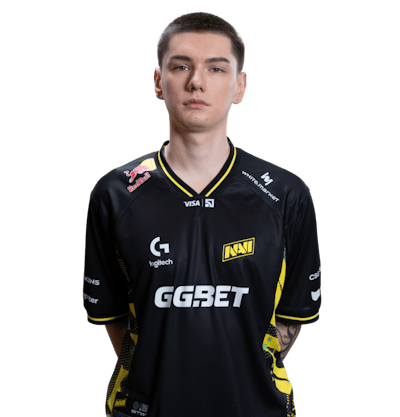
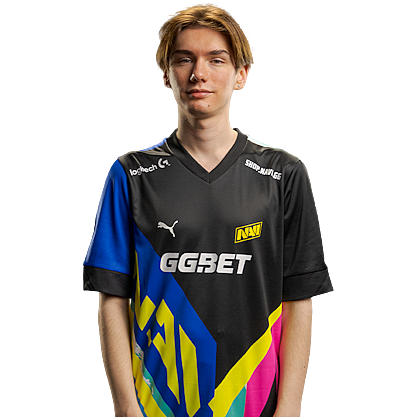
w0nderful update

diff --git a/assets/profile.js b/assets/profile.js
@@ -574,8 +574,8 @@ function teamPlayers() {
   return state.players.filter(p => sameTeam(p.team, state.team.team))
     .sort((a, b) => (a.roster === 'Starter' ? 0 : 1) - (b.roster === 'Starter' ? 0 : 1) || b.marketValue - a.marketValue);
 }
-function playerAwards(name) {
-  const hist = state.playerHistory.filter(h => h.player === name).sort(byNewest);
+function playerAwards(p) {
+  const hist = state.playerHistory.filter(h => ownsRow(p, h.player, h.team)).sort(byNewest);
   return { hist, trophies: hist.filter(isPodium), placements: hist.filter(h => h.kind === 'EVENT'), medals: hist.filter(h => h.kind !== 'EVENT') };
 }
 function renderRoster() {
@@ -585,7 +585,7 @@ function renderRoster() {
   if (!list.length) { box.innerHTML = '<div class="tp-empty">No players registered for this team.</div>'; return; }
   $('#tpRosterNote').textContent = 'Squad value ' + fmtMoney(list.reduce((s, p) => s + p.marketValue, 0));
   box.innerHTML = '<div class="tp-roster">' + list.map(p => {
-    const a = playerAwards(p.name);
+    const a = playerAwards(p);
     const shown = a.trophies.slice(0, CARD_TROPHY_LIMIT), hidden = a.trophies.length - shown.length;
     const groups = groupMedals(a.medals);
     const medals = groups.length ? `<div class="shelf xs tp-cardmedals">${groups.map(g => medalIconHtml(g)).join('')}</div>` : '';
@@ -710,7 +710,7 @@ function closePlayer() {
 const titleCase = s => String(s).toLowerCase().replace(/\b[a-z]/g, c => c.toUpperCase()).replace(/\bFa\b/, 'Free-agent');
 function careerHtml(p, noTitle) {
   const seen = new Set();
-  const moves = state.transactions.filter(x => x.player.toLowerCase() === p.name.toLowerCase()).sort((a, b) => a.id - b.id)
+  const moves = state.transactions.filter(x => nameEq(x.player, p.name)).sort((a, b) => a.id - b.id)
     .filter(x => { const k = [x.month, x.type, x.from, x.to].join('|'); if (seen.has(k)) return false; seen.add(k); return true; });
   const hasTeam = p.team && p.team.toLowerCase() !== 'none';
   const teamCell = n => /^free agen/i.test(n) ? '<span class="cr-fa">Free agency</span>' : `<span class="cr-team">${teamLink(n, true)}</span>`;
@@ -719,7 +719,7 @@ function careerHtml(p, noTitle) {
       ${x.amount > 0 ? `<span class="cr-fee">Fee ${fmtMoney(x.amount)}</span>` : ''}</li>`).join('');
   rows += `<li class="cr-now"><span class="cr-month">Now</span><span class="cr-type">${hasTeam ? esc(p.roster || 'Player') : 'Unsigned'}</span><span class="cr-move">${hasTeam ? teamCell(p.team) : teamCell('Free agency')}</span></li>`;
   // teams the player collected results with, even without a logged transfer
-  const others = [...new Set(state.playerHistory.filter(h => h.player === p.name && h.team && h.team.toLowerCase() !== 'none' && !sameTeam(h.team, p.team)).map(h => h.team))];
+  const others = [...new Set(state.playerHistory.filter(h => ownsRow(p, h.player, h.team) && h.team && h.team.toLowerCase() !== 'none' && !sameTeam(h.team, p.team)).map(h => h.team))];
   return `${noTitle ? '' : '<div class="ach-sub">Career</div>'}<ul class="cr-list">${rows}</ul>`
     + (others.length ? `<div class="cab-foot">Also has results with ${others.map(esc).join(', ')}</div>` : '')
     + (!moves.length ? '<div class="cab-foot">No transfers on record · dates are the day each move was logged</div>' : '<div class="cab-foot">Dates are the day each move was logged</div>');
@@ -728,7 +728,7 @@ function renderPlayerPanel(resetScroll) {
   const p = state.players.find(x => x.name === state.openPlayer);
   if (!p) return;
   const hasTeam = p.team && p.team.toLowerCase() !== 'none';
-  const a = playerAwards(p.name);
+  const a = playerAwards(p);
   const majors = Math.max(p.majorWinner, a.placements.filter(h => h.tier >= 5 && h.position === 'Winner').length);
   const view = getView('player');
   const groups = groupMedals(a.medals);
@@ -795,9 +795,31 @@ document.addEventListener('keydown', e => { if (e.key === 'Escape' && state.open
 ══════════════════════════════════════════════════════════════ */
 const playerUrl = name => 'player.html?player=' + encodeURIComponent(name);
 const teamUrl = name => 'team.html?team=' + encodeURIComponent(name);
-const findPlayer = name => state.players.find(p => p.name.toLowerCase() === String(name).trim().toLowerCase());
-function playerLink(name) {
-  const p = findPlayer(name);
+/* Names are matched ignoring capitals (files disagree on "Into The Beach" style details),
+   EXCEPT when two different players share a name apart from capitals (matys / MATYS).
+   Then the team decides: a row that says "MATYS, Fnatic" belongs to whichever of the two
+   plays for Fnatic; with no team to go by, the exact spelling wins. */
+function nameIndex() {
+  if (state._byLower && state._byLowerN === state.players.length) return state._byLower;
+  const m = new Map();
+  state.players.forEach(p => { const k = p.name.toLowerCase(); if (!m.has(k)) m.set(k, []); m.get(k).push(p); });
+  state._byLowerN = state.players.length;
+  return (state._byLower = m);
+}
+function findPlayer(name, team) {
+  name = String(name).trim();
+  const c = nameIndex().get(name.toLowerCase());
+  if (!c) return undefined;
+  if (c.length === 1) return c[0];
+  const onTeam = team ? c.filter(p => sameTeam(p.team, team)) : [];
+  return onTeam.find(p => p.name === name) || onTeam[0] || c.find(p => p.name === name) || c[0];
+}
+const hasTwin = name => (nameIndex().get(String(name).toLowerCase()) || []).length > 1;
+const nameEq = (a, b) => a === b || (a.toLowerCase() === b.toLowerCase() && !hasTwin(a));
+/* does this history / lineup entry (name + the team it was written for) belong to player p? */
+const ownsRow = (p, name, team) => name === p.name && !hasTwin(name) ? true : findPlayer(name, team) === p;
+function playerLink(name, team) {
+  const p = findPlayer(name, team);
   return p ? `<a class="pl-link" href="${playerUrl(p.name)}">${esc(p.name)}</a>` : `<span class="pl-link off" title="Not in the players file">${esc(name)}</span>`;
 }
 function teamLink(name, withLogo) {
@@ -840,7 +862,7 @@ function rosterAt(team, ms) {
   const names = state.players.filter(p => sameTeam(p.team, team))
     .sort((a, b) => (a.roster === 'Starter' ? 0 : 1) - (b.roster === 'Starter' ? 0 : 1) || b.marketValue - a.marketValue).map(p => p.name);
   if (ms == null) return names;
-  const has = n => names.findIndex(x => x.toLowerCase() === n.toLowerCase());
+  const has = n => names.findIndex(x => nameEq(x, n));
   state.transactions.filter(x => x.id > ms).sort((a, b) => b.id - a.id).forEach(x => {
     const into = sameTeam(x.to, team), outOf = sameTeam(x.from, team);
     if (into && !outOf) { const i = has(x.player); if (i >= 0) names.splice(i, 1); }       // joined later → was not here yet
@@ -860,23 +882,24 @@ function lineupFor(team, key) {
 function lineupHtml(team, key) {
   const lu = lineupFor(team, key);
   if (!lu.players.length) return '';
-  return `<div class="lu"><span class="lu-l">Lineup</span><span class="lu-p">${lu.players.map(playerLink).join('')}</span>
+  return `<div class="lu"><span class="lu-l">Lineup</span><span class="lu-p">${lu.players.map(n => playerLink(n, team)).join('')}</span>
     <span class="lu-src ${lu.source}">${lu.source === 'recorded' ? 'recorded at the event' : 'estimated · today’s roster with later transfers undone'}</span></div>`;
 }
 
 /* ── former players of a team: logged departures + names seen in old lineups ── */
 function formerPlayers(team) {
-  const now = new Set(state.players.filter(p => sameTeam(p.team, team)).map(p => p.name.toLowerCase()));
+  const here = n => { const p = findPlayer(n, team); return !!p && sameTeam(p.team, team); };   // still on this team today
   const out = new Map();
   state.transactions.filter(x => sameTeam(x.from, team) && !sameTeam(x.to, team)).sort((a, b) => a.id - b.id).forEach(x => {
-    if (now.has(x.player.toLowerCase())) return;                       // came back
-    out.set(x.player.toLowerCase(), { name: x.player, tx: x, events: [] });
+    if (here(x.player)) return;                                        // came back
+    out.set(x.player, { name: x.player, tx: x, events: [] });
   });
   tournamentsOf(team).forEach(o => {
     const lu = lineupFor(team, o.key);
     if (lu.source !== 'recorded') return;
     lu.players.forEach(n => {
-      const k = n.toLowerCase(); if (now.has(k)) return;
+      if (here(n)) return;
+      const k = [...out.keys()].find(x => nameEq(x, n)) || n;
       if (!out.has(k)) out.set(k, { name: n, tx: null, events: [] });
       out.get(k).events.push(o.name);
     });
@@ -900,8 +923,7 @@ function renderFormer() {
 }
 
 /* ── events a player took part in (any team), with that team's result ── */
-function playerEvents(name) {
-  const nl = name.toLowerCase();
+function playerEvents(p) {
   const dates = eventDates();
   const keys = new Set([...(state.events || []).map(e => e.key), ...dates.keys()]);
   const found = new Map();
@@ -911,11 +933,11 @@ function playerEvents(name) {
     if (ev) ev.standings.forEach(s => s.names.forEach(n => { if (!teams.has(n.toLowerCase())) teams.set(n.toLowerCase(), n); }));
     teams.forEach(team => {
       const lu = lineupFor(team, key);
-      if (lu.players.some(p => p.toLowerCase() === nl)) found.set(key + '|' + team.toLowerCase(), { key, team, source: lu.source });
+      if (lu.players.some(n => ownsRow(p, n, team))) found.set(key + '|' + team.toLowerCase(), { key, team, source: lu.source });
     });
   });
   // results stored on the player always count, whatever the lineups say
-  state.playerHistory.filter(h => h.player.toLowerCase() === nl && h.kind === 'EVENT' && h.team && h.team.toLowerCase() !== 'none').forEach(h => {
+  state.playerHistory.filter(h => ownsRow(p, h.player, h.team) && h.kind === 'EVENT' && h.team && h.team.toLowerCase() !== 'none').forEach(h => {
     const key = evKey(h.event), id = key + '|' + h.team.toLowerCase();
     const sameEvent = [...found.keys()].filter(k => k.startsWith(key + '|'));
     sameEvent.forEach(k => { if (k !== id && found.get(k).source === 'estimated') found.delete(k); });   // the recorded result wins over a guess
@@ -1031,7 +1053,7 @@ function renderPlayerHero() {
   const p = state.player;
   document.title = `${p.name} · NEXUS`;
   const hasTeam = p.team && p.team.toLowerCase() !== 'none';
-  const a = playerAwards(p.name);
+  const a = playerAwards(p);
   const groups = groupMedals(a.medals);
   const majors = Math.max(p.majorWinner, a.placements.filter(h => h.tier >= 5 && h.position === 'Winner').length);
   const evs = state._plEvents || [];
@@ -1064,7 +1086,7 @@ function renderPlayerHero() {
 }
 function renderPlayerCabinet() {
   const p = state.player, box = $('#plAch'), btn = $('#ppAchToggle');
-  const a = playerAwards(p.name), view = getView('player');
+  const a = playerAwards(p), view = getView('player');
   btn.textContent = toggleLabel(view); btn.setAttribute('aria-pressed', view === 'detailed'); btn.hidden = !a.hist.length;
   $('#plCabCount').textContent = a.trophies.length ? `${a.trophies.length} on the shelf` : '';
   if (!state.historyLoaded) { box.innerHTML = '<div class="shelf-none">Achievements file (file/history_updated.xlsx) could not be loaded.</div>'; return; }
@@ -1096,7 +1118,7 @@ function renderPlayerOverview() {
 }
 function renderPlayerEvents() {
   const box = $('#plEvents');
-  const list = state._plEvents = playerEvents(state.player.name);
+  const list = state._plEvents = playerEvents(state.player);
   $('#tabHistCount').textContent = list.length || '';
   $('#plEventsNote').textContent = list.length ? `${list.length} event${list.length > 1 ? 's' : ''}` : '';
   if (!list.length) { box.innerHTML = '<div class="tp-empty">No events on record for this player.</div>'; return; }
